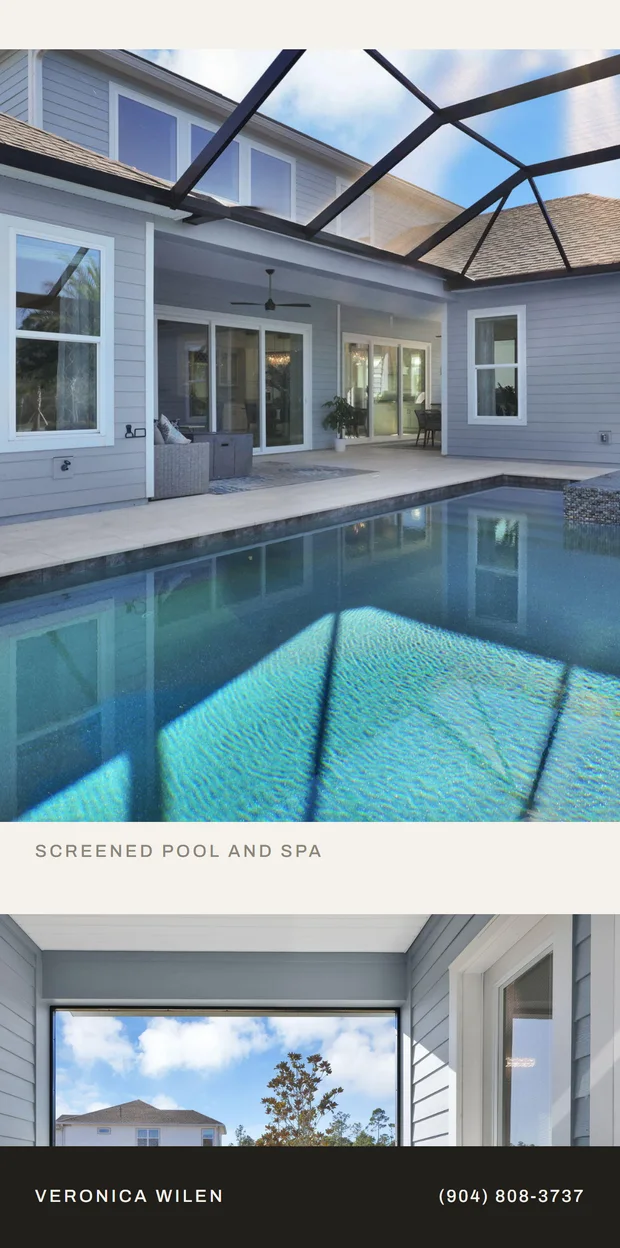
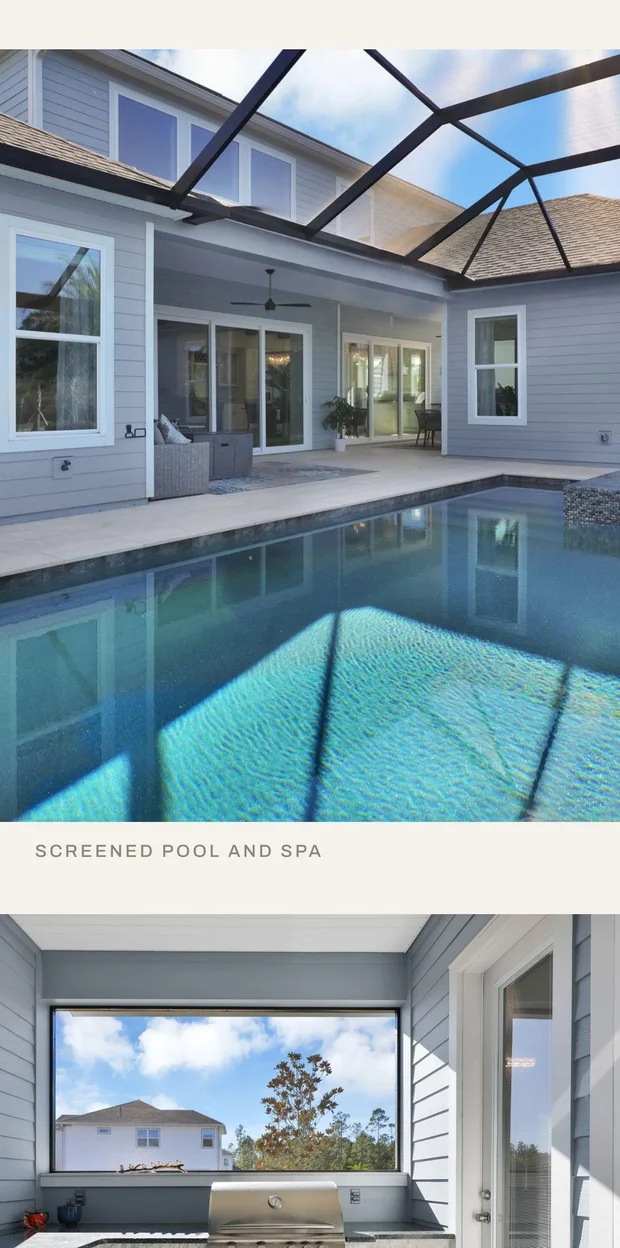
Drop the guide's sticky call band from the hero screens
The black VERONICA WILEN bar sat across the bottom of all four hero frames. It is
the guide's own sticky band, so it was captured into every screenshot, repeating
the same strip four times and eating 64px of each frame.

The captures now hide it. It is safe to remove because it sits last in the flow:
hiding it shrinks the document by exactly its own 64px and every section above
keeps its offset, which was checked before recapturing rather than assumed.

Each frame gains that 64px back as real content. The opening screen now reaches
the bed, bath and square-foot counts, the figures table reaches HOA, the gallery
frame shows more of the outdoor kitchen, and the closing card shows all three of
the call, text and email rows.

Alt text updated on the two frames that described the band, and on the wide panel
which was rebuilt from the same captures.

Changed region(s): [[0.0, 0.9062, 1.0, 1.0]]

diff --git a/index.html b/index.html
@@ -62,9 +62,9 @@
         <div class="phone-glow" aria-hidden="true"></div>
         <div class="phone">
           <div class="phone-screen">
-            <div class="frame"><img src="images/guide-openhouse-home.webp" width="620" height="1248" alt="The guide’s opening screen on a phone: 268 Harper’s Mill Drive over a photo of the home, with the sold price below and the agent’s call bar pinned at the bottom." loading="eager" decoding="async"></div>
+            <div class="frame"><img src="images/guide-openhouse-home.webp" width="620" height="1248" alt="The guide’s opening screen on a phone: 268 Harper’s Mill Drive over a photo of the home, then the sold price and the bed, bath and square-foot counts." loading="eager" decoding="async"></div>
             <div class="frame"><img src="images/guide-openhouse-photo.webp" width="620" height="1248" alt="The guide’s gallery on a phone: the screened pool and spa, captioned, with the outdoor kitchen below it." loading="lazy" decoding="async"></div>
-            <div class="frame"><img src="images/guide-openhouse-stats.webp" width="620" height="1248" alt="The guide’s figures table on a phone: original list price, days on market, baths, year built, lot, waterfront, garage, taxes, HOA, CDD and MLS number." loading="lazy" decoding="async"></div>
+            <div class="frame"><img src="images/guide-openhouse-stats.webp" width="620" height="1248" alt="The guide’s figures table on a phone: 4,252 square feet at $423 per square foot, then sold price, original list, days on market, baths, year built, lot, waterfront, garage, taxes and HOA." loading="lazy" decoding="async"></div>
             <div class="frame"><img src="images/guide-openhouse-contact.webp" width="620" height="1248" alt="The guide’s closing screen on a phone: Veronica Wilen of Christie’s International, with rows to call, text or email her." loading="lazy" decoding="async"></div>
           </div>
           </div>

diff --git a/script.js b/script.js
@@ -86,7 +86,7 @@ document.addEventListener('DOMContentLoaded',function(){
   // examples: tab switcher
   var EXAMPLES=[
     {visual:'guide-openhouse-wide.webp',
-     alt:'The 268 Harper’s Mill Drive guide on two phones: the address over a photo of the home, and the figures table listing sold price, original list, days on market, year built, lot, taxes and more.',
+     alt:'The 268 Harper’s Mill Drive guide on two phones: the address over a photo of the home, and the figures table listing square footage, price per square foot, sold price, days on market and more.',
      inGuide:['The line','Gallery','The figures','The house','The area'],
      result:'The paper flyer buyers leave in the car.'},
     {visual:'guide-aftercare-wide.webp',
